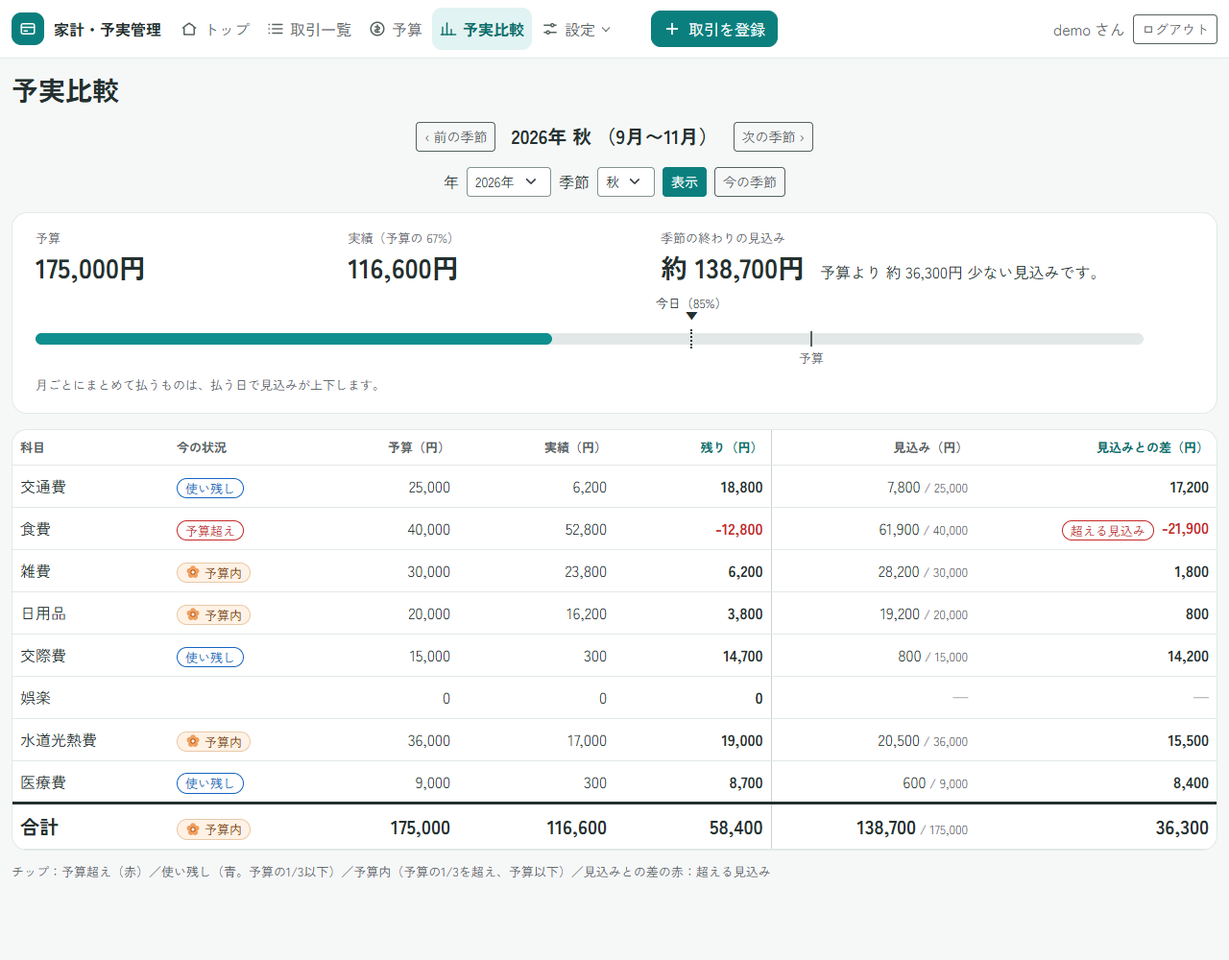
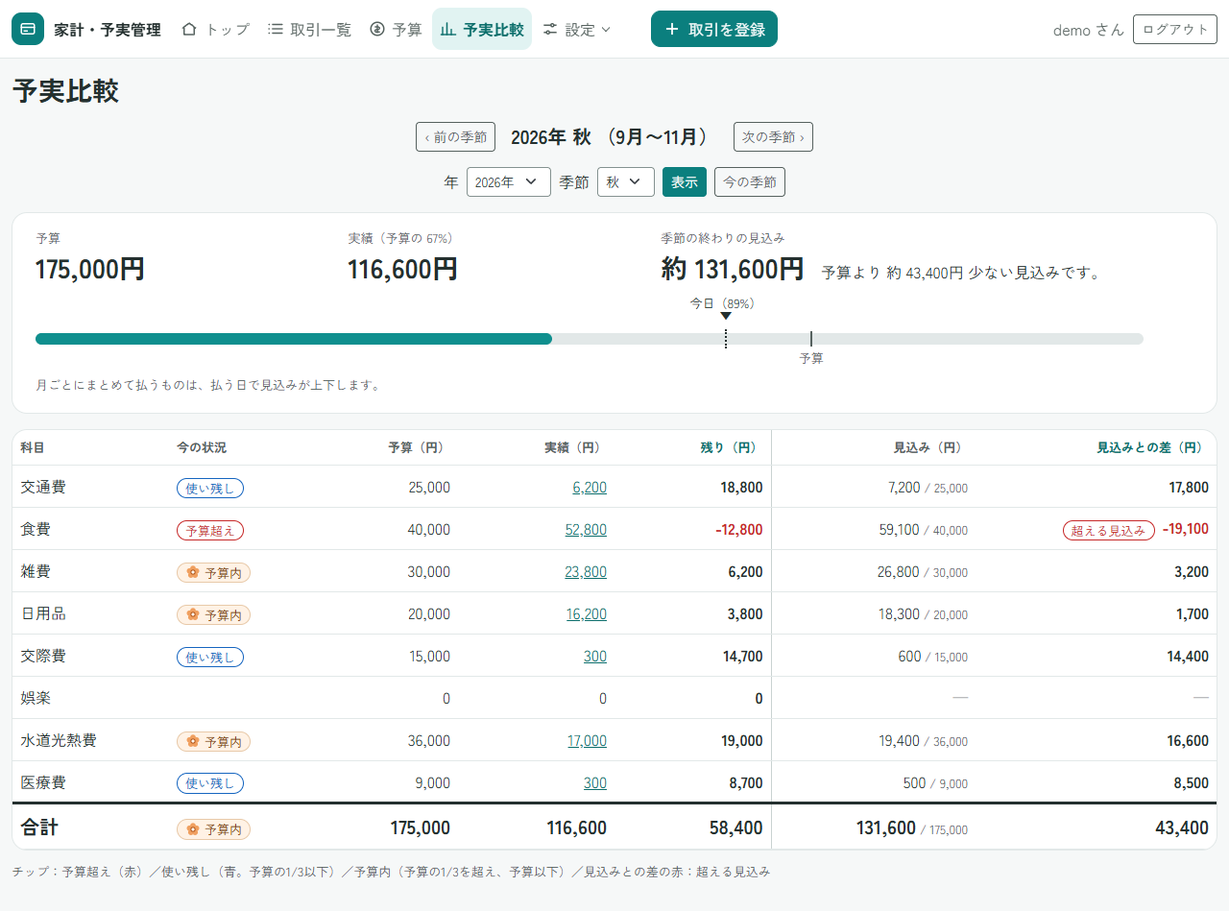
issue 023 段階4: 件数・features・画像07/08（完了）

diff --git a/docs/testing.md b/docs/testing.md
@@ -2,18 +2,18 @@
 
 [← README に戻る](../README.md)
 
-自動テストは **2,846 件**（2026 年 11 月 19 日の時点）で、すべて成功しています。古いレポートが混ざらないよう、`.\mvnw clean test` で流して数えています（`.\mvnw test` でも実行できます）（MySQL と環境変数が要ります。各テストは、データベースの変更を最後に取り消すので、データは残りません）。
+自動テストは **2,912 件**（2026 年 11 月 20 日の時点）で、すべて成功しています。古いレポートが混ざらないよう、`.\mvnw clean test` で流して数えています（`.\mvnw test` でも実行できます）（MySQL と環境変数が要ります。各テストは、データベースの変更を最後に取り消すので、データは残りません）。
 
 テストのときの DB の接続の数は、テストのときだけ読まれる `src/test/resources/config/application.properties` で、本体より小さくしています（テストの準備〔ApplicationContext〕は十数種類あり、準備ごとに接続の入れ物を持つため、MySQL の接続の上限に届かないようにする。issue 032 の段階 0）。本体の `src/main/resources/application.properties` はそのまま読まれ、アプリを起動したときの接続の数は変わりません。
 
 | 種類 | 件数 | 何を確かめるか |
 |---|---|---|
-| 画面（Controller） | 1149 | 明細の行に分けた登録（5 行、空の行、一部だけ入った行、行ごとの入力チェック、6 行目は 400、「行を足す」「行を消す」と明細の合計の HTML の印）、同じレシートの取引（印の付け方、印は画面から受け取らないこと、どの行から入っても編集・削除・複写がレシート全体になること、編集で行を足す・消す・直すときに残る行の id が変わらないこと、日付・取引先・支払方法が全部の行で変わること、一覧の並びと印「分割」、削除の確認の文、印のない行は 1 件ずつのままであること、他人のレシートの行は 404）、画面の表示、予実比較が「今日」を 1 回だけ取ること、エラーのメッセージ、入力値が残ること、移動先、他人のデータが見えないこと、金額ボタンの HTML、取引の複写、色とメニューの印、フォント（CSS の指定、ファイル、キャッシュ）、取引の登録・編集画面の 2 列（HTML の並び、印、ボタン、CSS の規則）、トップ（表示、空のときの案内、`style` 属性が数字と固定の文字だけであること、色の変数）、きょうのひとこと（枠の位置、暦の文の出し分け、行事と節気が重なる日の並び、年末・表の外の年、科目が 0 件のとき、科目名のエスケープ、他の人のデータが混ざらないこと、枠の CSS）、ヘッダー（ロゴ、メニューのアイコン、ヘッダーが 1 つだけであること）、ログイン・登録の 2 列（紹介、入力欄の `autocomplete`、CSS）、取引一覧（件数、カードの中の表）、トップの季節のメーター（見込みの一文と、メーターの数字との一致）、円グラフの一覧の今週の判定、予実比較の着地見込みの 1 行（今の季節だけ、「上回ります」が出る・出ない、警告の言葉がない）、予算設定の自動予算（`auto` の 1〜3 以外は 404、案の文、5 列の表と合計の行、ボタンと切りかえの表示、保存のボタンと CSRF、合計・確認の JavaScript に渡す HTML の印）、ログイン・登録の縦の位置（CSS）、メーター（縮尺、予算の線、超えた部分の赤、「+○%」、「今日」の名前）、予実比較の今の季節の列（残り・見込み・見込みとの差、チップ、列の幅、区切り線）、予算設定の列の並びと、案のもとにした数字の目印（薄いターコイズの背景）、トップの季節の文（2 行、赤い部分）と今週のひとこと（置き場所、アイコン、科目名の無害化）、ログイン・登録の紹介のチェック 3 つ（文、順番、印の数）、取引一覧の金額の見出し（「金額（円）」）とセルに「円」がないこと、行にマウスを載せたときの色（薄いターコイズを使わないこと、本文・リンク・補足の文字との明るさの比が 4.5 以上）、科目・取引先・支払方法の追加ボタンが入力欄と同じ行にあること（3 画面が同じ形、エラーの文は行の下）、ボタンの言葉（追加と保存。登録する・更新・変更の送信ボタンがなく、ログイン・登録・削除などはそのまま）、取引一覧の月ごとの見出し（件数と合計。他人の取引が混ざらないこと）、操作の列（編集・複写・削除のボタンとアイコン、削除の確認の文が科目名の記号で壊れないこと）、取引の詳細ページがなく 404 になること、金額ボタンの 2 つのまとまり、科目・取引先・支払方法の一覧と変更の画面の白いカード、予算設定・予実比較の「前の季節」「次の季節」の並び、ログイン・登録の上の余白と説明のチップ、取引の登録・編集画面の取引先・支払方法の並び（取引の件数の多い順、ほかの人の取引を数えないこと、編集・複写・入力エラーで選んでいた値が残ること、一覧の画面は登録順のまま）、ヘッダーの「取引を登録」（全画面に 1 つ、メニューの外、トップと取引一覧の本文にはないこと、登録画面だけで今の印が付くこと、ログイン前の画面には出ないこと、メニューのすぐあとでユーザー名のまとまりの外にあること、「設定」との間の 36px）、メニューの「設定」（5 つの項目、中の 3 つのリンク、「予算」から予算設定の画面へ、科目・取引先・支払方法の画面だけで「設定」に印、JavaScript を使わないこと） |
+| 画面（Controller） | 1208 | 取引一覧の絞り込み（他人・存在しない科目と不正な年・季節は 404、見出しの文、予実比較の実績との一致〔季節の境目〕、科目で絞ったときの削除の確認の文がレシート全体の値になること）、予実比較の実績のリンク（表示している季節で組む、リンク先の合計 ＝ セルの数字）、明細の行に分けた登録（5 行、空の行、一部だけ入った行、行ごとの入力チェック、6 行目は 400、「行を足す」「行を消す」と明細の合計の HTML の印）、同じレシートの取引（印の付け方、印は画面から受け取らないこと、どの行から入っても編集・削除・複写がレシート全体になること、編集で行を足す・消す・直すときに残る行の id が変わらないこと、日付・取引先・支払方法が全部の行で変わること、一覧の並びと印「分割」、削除の確認の文、印のない行は 1 件ずつのままであること、他人のレシートの行は 404）、画面の表示、予実比較が「今日」を 1 回だけ取ること、エラーのメッセージ、入力値が残ること、移動先、他人のデータが見えないこと、金額ボタンの HTML、取引の複写、色とメニューの印、フォント（CSS の指定、ファイル、キャッシュ）、取引の登録・編集画面の 2 列（HTML の並び、印、ボタン、CSS の規則）、トップ（表示、空のときの案内、`style` 属性が数字と固定の文字だけであること、色の変数）、きょうのひとこと（枠の位置、暦の文の出し分け、行事と節気が重なる日の並び、年末・表の外の年、科目が 0 件のとき、科目名のエスケープ、他の人のデータが混ざらないこと、枠の CSS）、ヘッダー（ロゴ、メニューのアイコン、ヘッダーが 1 つだけであること）、ログイン・登録の 2 列（紹介、入力欄の `autocomplete`、CSS）、取引一覧（件数、カードの中の表）、トップの季節のメーター（見込みの一文と、メーターの数字との一致）、円グラフの一覧の今週の判定、予実比較の着地見込みの 1 行（今の季節だけ、「上回ります」が出る・出ない、警告の言葉がない）、予算設定の自動予算（`auto` の 1〜3 以外は 404、案の文、5 列の表と合計の行、ボタンと切りかえの表示、保存のボタンと CSRF、合計・確認の JavaScript に渡す HTML の印）、ログイン・登録の縦の位置（CSS）、メーター（縮尺、予算の線、超えた部分の赤、「+○%」、「今日」の名前）、予実比較の今の季節の列（残り・見込み・見込みとの差、チップ、列の幅、区切り線）、予算設定の列の並びと、案のもとにした数字の目印（薄いターコイズの背景）、トップの季節の文（2 行、赤い部分）と今週のひとこと（置き場所、アイコン、科目名の無害化）、ログイン・登録の紹介のチェック 3 つ（文、順番、印の数）、取引一覧の金額の見出し（「金額（円）」）とセルに「円」がないこと、行にマウスを載せたときの色（薄いターコイズを使わないこと、本文・リンク・補足の文字との明るさの比が 4.5 以上）、科目・取引先・支払方法の追加ボタンが入力欄と同じ行にあること（3 画面が同じ形、エラーの文は行の下）、ボタンの言葉（追加と保存。登録する・更新・変更の送信ボタンがなく、ログイン・登録・削除などはそのまま）、取引一覧の月ごとの見出し（件数と合計。他人の取引が混ざらないこと）、操作の列（編集・複写・削除のボタンとアイコン、削除の確認の文が科目名の記号で壊れないこと）、取引の詳細ページがなく 404 になること、金額ボタンの 2 つのまとまり、科目・取引先・支払方法の一覧と変更の画面の白いカード、予算設定・予実比較の「前の季節」「次の季節」の並び、ログイン・登録の上の余白と説明のチップ、取引の登録・編集画面の取引先・支払方法の並び（取引の件数の多い順、ほかの人の取引を数えないこと、編集・複写・入力エラーで選んでいた値が残ること、一覧の画面は登録順のまま）、ヘッダーの「取引を登録」（全画面に 1 つ、メニューの外、トップと取引一覧の本文にはないこと、登録画面だけで今の印が付くこと、ログイン前の画面には出ないこと、メニューのすぐあとでユーザー名のまとまりの外にあること、「設定」との間の 36px）、メニューの「設定」（5 つの項目、中の 3 つのリンク、「予算」から予算設定の画面へ、科目・取引先・支払方法の画面だけで「設定」に印、JavaScript を使わないこと） |
 | 入力チェックと値の変換 | 349 | 明細の行ごとの入力チェック（空の行は無視、一部だけ入った行、型変換のエラーのある行、1 行以上、5 行まで）、必須・文字数・範囲、全角の数字、整数でない入力 |
-| 計算 | 707 | 季節の決まり（前後の季節、範囲、冬の年）、色の判定の境目、今週の期間、週の予算と切り上げの境目、「今日」の線の位置、円グラフの並びと割合、二十四節気の日と七十二候の境目（年をまたぐ、表の外の年）、年中行事の日（節分・お彼岸入りは節気から計算）、グラフへのひとことの型と選び方、季節の終わりまでの日数、使った割合と日の進み方の％、着地見込みの式（整理前の式との一致、予定どおりなら予算、100 円切り上げ、桁あふれは例外）、「予算の ○%」と「上回ります」の境目、円グラフの一覧の判定の引き継ぎ（「その他」は判定なし）、自動予算の計算（過去の同じ季節の組み立て、中央値、傾向の％と上限、ペース、案の選び方と 1,000 円切り上げ・上限、桁あふれ）、メーターの縮尺と赤い部分（予算 0 円を含む）、今週いちばん進んでいる科目の選び方、最初の取引の日から数える着地見込みとペース（予算の日割りを含む）、予実比較の見込みの差の文（少ない・多い・同じ） |
+| 計算 | 709 | 季節の決まり（前後の季節、範囲、冬の年）、色の判定の境目、今週の期間、週の予算と切り上げの境目、「今日」の線の位置、円グラフの並びと割合、二十四節気の日と七十二候の境目（年をまたぐ、表の外の年）、年中行事の日（節分・お彼岸入りは節気から計算）、グラフへのひとことの型と選び方、季節の終わりまでの日数、使った割合と日の進み方の％、着地見込みの式（整理前の式との一致、予定どおりなら予算、100 円切り上げ、桁あふれは例外）、「予算の ○%」と「上回ります」の境目、円グラフの一覧の判定の引き継ぎ（「その他」は判定なし）、自動予算の計算（過去の同じ季節の組み立て、中央値、傾向の％と上限、ペース、案の選び方と 1,000 円切り上げ・上限、桁あふれ）、メーターの縮尺と赤い部分（予算 0 円を含む）、今週いちばん進んでいる科目の選び方、最初の取引の日から数える着地見込みとペース（予算の日割りを含む）、予実比較の見込みの差の文（少ない・多い・同じ） |
 | 業務処理（Service） | 371 | 明細の行の登録（全部の行を確かめてから書くこと）、同じレシートを読む・登録する・更新するときの SQL の本数が行の数で増えないこと、登録・更新・削除の決まり、初期データ、予実比較の集計、予実比較の画面用のまとまり（科目ごとの見込みと見込みとの差、要約カードが出る条件、過去・未来の季節では出さないこと）、予実比較・トップ・予算設定の SQL の本数が科目の数で増えないこと、取引の登録・編集画面の SQL の本数が科目・取引先・支払方法・取引の数で増えないこと、256 個の上限、トップの集計（週の境目、季節をまたぐ週、他の人のデータが混ざらないこと）、きょうのひとこと（文面 107 個の件数・番号・空の文、二十四節気の日付の表を国立天文台の日付と照らすこと、グラフへのひとことの文に禁止の言葉がないこと）、トップの数字（残り日数、％、状況のチップ、円グラフの一覧の判定が今週の進み具合と同じこと、着地見込みが予実比較の合計と同じ値から計算されること）、自動予算（「記録のある年」の判定、根拠の文、他人のデータが混ざらないこと、案を入れても保存しないこと）、予算設定の初期値、最初の取引の日から数えた着地見込みが、トップ・予実比較・自動予算に届くこと、案のもとにした数字をサーバーが決めること、取引の月ごとの集計（月末と月初、うるう年、年またぎ、他人の取引が混ざらないこと） |
 | セキュリティ | 98 | ログイン必須、CSRF、ログイン・ログアウト、ログインが切れたあとの移動（issue 030）、応答のヘッダー、フォントがログインなしで開けること |
-| データベース | 80 | 同じレシートの取引を「印と持ち主」で読む検索（他人の行を読まないこと）、一覧の並び（日付 → レシート → 行の順）、印の列の読み書き、読み書き、制約、集計の SQL（月ごとの科目別の集計を含む）、最初の取引の日（自分の取引だけ） |
+| データベース | 85 | 取引一覧の絞り込みの検索（値が null なら絞らない、他人の行を読まない、並びが絞らない一覧と同じ）、同じレシートの合計を「印と持ち主」で読む検索、同じレシートの取引を「印と持ち主」で読む検索（他人の行を読まないこと）、一覧の並び（日付 → レシート → 行の順）、印の列の読み書き、読み書き、制約、集計の SQL（月ごとの科目別の集計を含む）、最初の取引の日（自分の取引だけ） |
 | そのほか | 92 | 明細の行の JavaScript（split-lines.js）のソースの検査（行を作らない・写さない、文を持たない）、メッセージの文、テンプレートの検査（無害化しない出力がないこと、`onsubmit` などのイベントの属性と `javascript:` の URL がないこと）、JavaScript のソースの検査（金額ボタン、予算の合計、`static/js` の全ファイルに `innerHTML`・`eval` などがないこと）、エラー処理、設定、起動 |
 
 自動テストでは確かめにくいものは、ブラウザで確かめました（Phase 8）。全画面を開く、入力チェックの境界値、セキュリティ（ログイン前後のセッション ID の変化、Cookie、エラー画面）、2 人のユーザーでのデータ分離です。確認の記録は、[docs/plans/phase-8-polish.md](plans/phase-8-polish.md) にあります。
@@ -81,6 +81,19 @@
 - 印は画面から受け取らない（送っても使わない）
   - `TransactionReceiptTest.aMarkSentOnRegistrationIsIgnored`
   - `TransactionReceiptTest.aMarkSentOnEditIsIgnored`
+
+**取引一覧の絞り込みと、予実比較の実績のリンク（issue 023）**
+
+- 他人の科目・存在しない科目・数字でない値は、同じ 404 になる
+  - `TransactionFilterTest.otherUsersMissingAndInvalidCategoriesAreTheSame404`
+- 他人の行に自分の科目の ID が入っていても（SQL で作る）、絞り込んだ一覧に出ない
+  - `TransactionFilterTest.otherUsersRowsAreNeverShownEvenWithMyCategoryId`
+  - `TransactionRepositoryFilterTest.otherUsersRowsAreNeverReturned`
+- 科目で絞っても、削除の確認の文の合計・行の数は、実際に消える行（レシート全体）と同じ。他人の行に同じ印の値が入っていても数えない
+  - `TransactionFilterTest.theDeleteConfirmationOfAPartlyShownReceiptCountsTheWholeReceipt`
+  - `TransactionFilterTest.anotherUsersRowWithTheSameMarkIsNotCounted`
+- 予実比較のリンクに出るのは、自分の科目の ID だけ
+  - `ComparisonControllerTest.linksCarryOnlyMyOwnCategoryIds`
 
 **アカウント登録**
 

diff --git a/docs/features.md b/docs/features.md
@@ -14,12 +14,13 @@
 - **1 回の支払いを、科目に分けて登録する（複合仕訳）**：レシート 1 枚の支払いを、日付・取引先・支払方法は 1 つだけ入れ、科目・金額・摘要は 5 行まで、行ごとに入れて登録できます（例：スーパー 3,000 円 → 食費 2,200 円 ＋ 日用品 800 円）。1 行が 1 つの取引になり、予実比較などの集計には、科目ごとに入ります。分けて登録した取引はつながっていて、一覧のどの行から編集・削除・複写を選んでも、そのレシート全体が対象になります（一覧では「分割」の印が付き、続けて並びます）。明細の合計を画面に出しますが、合計は入力しません（レシートと合っているかは、見て確かめます）。
 - **金額の入力を助けるボタン**：取引の登録・編集の画面の、明細の各行の金額の欄に、足すボタン（+1・+10・+100・+1,000・+10,000）、税込のボタン（10%・8%。端数は切り捨て）、クリアを置いています。税込のボタンは、金額に税を二重にかけないよう、一度押したら、欄を書き換えるか空にするまで押せません。ボタンを使わず、手で数字を入力してもかまいません。ボタンで入れた金額にも、サーバーが同じ入力チェックをします。
 - **取引の複写**：取引一覧の各行の「複写」を押すと、その取引の科目・取引先・支払方法・金額・摘要（分けて登録した取引なら、そのレシートの全部の行）が入った登録画面が開きます。日付は今日です。開いただけでは保存せず、「保存」を押したときに、ふつうの登録と同じ入力チェックをして保存します。他人の取引や、存在しない取引は写せません（404）。
+- **取引一覧の絞り込み**：取引一覧を、科目と季節で絞り込めます（科目だけ・季節だけ・両方。例：`/transactions?category=3&year=2026&season=autumn`）。予実比較の実績の数字から開くのがふつうの入り方です。一覧の上に「2026年 秋・食費の取引（3 件・合計 12,300円）」のような見出しと、「絞り込みを外す」が出ます（冬は「2026年 冬（2026年12月〜2027年2月）」と期間を添えます）。季節と科目を両方指定したときの合計は、予実比較の実績と同じです。当てはまる取引がないときは「この条件に当てはまる取引はありません。」と出ます。分けて登録したレシートを科目で絞ると、その科目の行だけが出ますが、削除の確認には、レシート全体の合計と行の数と、「この一覧に出ていない ○ 行も消えます。」が出ます。他人の科目、存在しない科目、年と季節の片方だけ、不正な値は 404 です。編集・複写・削除のあとは、絞り込まない一覧に戻ります。
 - **科目・取引先・支払方法の管理**：追加・変更・削除ができます。それぞれ 1 人あたり 256 個までです。取引で使っているものと、0 円でない予算がある科目は、削除できません。削除の前に、どれを消すか（種類と名前）を書いた確認が出ます。新しくアカウントを作ると、科目（交通費・食費・雑費。今の季節の予算は各 30,000 円）、取引先（コンビニ・ガソリンスタンド・Amazon）、支払方法（現金・クレジットカード）が自動で用意されます。
 - **予算**：季節ごとの予算を、全科目まとめて設定します。年と季節を選ぶ欄、「前の季節」「次の季節」、「今の季節」ボタンで、季節を移動できます。まだ保存していない科目の予算額の初期値は 0 円です（保存すると、その額が入ります）。予算額の合計は、表の一番下の合計の行に出て、欄を書き換えるたびに計算し直します（短い JavaScript。数字でない欄や空の欄があるときは、合計に入れず、文で知らせます）。
 - **自動予算**：予算設定の画面の「自動予算」ボタンで、科目ごとの予算の案を入力欄に入れます（保存はしません。保存は「保存」を押したときだけ）。案は、上から順に最初に当てはまるもので決めます。①過去 3 年の同じ季節の実績の中央値 × ここ 3 年の傾向 × 選んだ割合。②直前の季節のペース × 選んだ割合。③直前の季節の予算 × 選んだ割合。④どれもなければ、今の値のまま。傾向は全科目で同じで、上限は ±30%、最後に 1,000 円単位で切り上げ、1 科目 3,000,000 円を上限にします。割合は、「1. これで OK」（100%）、「2. 節約したい」（90%）、「3. 上乗せしたい」（110%）から選べ、選び直すたびに、もとから計算し直します。案を入れたあとは、直前の季節の予算・実績、案の根拠の列と、合計の行が出ます。手で直した額があるときは、「自動予算」や 1〜3 を押す前に確認が出ます（JavaScript が有効のときだけ）。「保存」を押したときも、保存する前に、「2026 年 冬の予算を保存します（合計 141,000 円）。よろしいですか？」のような確認が出ます（数字でない欄や空の欄があるときは、合計を書かない文。JavaScript が有効のときだけ）。表は「科目 → 根拠 → 予算額 → 前の季節の実績 → 前の季節の予算」の並びで、案のもとにした数字（根拠の数字、前の季節のペースか実績、前の季節の予算）には、薄いターコイズの背景と太字の目印が付きます（材料がない科目には付けません）。どの数字かは、案を決めたルールから、サーバーが決めます。
 - **トップ**：ログインしたあとに開く最初の画面です。①今の季節の「使った額 / 予算」と「残り」を、メーターで見せます（棒の上に「今日」の名前を、点線で置きます）。メーターの下には、2 行で、「季節は ○% 過ぎて、予算は ○% 使いました。」と、「このペースだと、季節の終わりには 約 ○円（予算の ○%）の見込みです。」を見せます（「約 ○円（予算の ○%）」は大きく、見込みが予算を超えるときは「予算の ○%」だけ赤です）。②今週（日曜〜土曜）に何に使ったかを、円グラフと一覧で見せます（ターコイズの濃淡と灰色だけ。科目が多いときは上位 5 科目と「その他」）。③今週の科目ごとの「実績 / 週の予算」を、メーターで見せます。週の予算は、今日が入っている季節の予算 ÷ 13 を 100 円単位で切り上げた額、今週の実績も 100 円単位で切り上げた額です。科目名の横に、状況のチップ（予算超え・使い残し・予算内）を出します。決まりは予実比較と同じで、予算超えのチップには、超えた金額も出します（「予算超え ＋1,100円」）。メーターのすぐ下に、小さなアイコンつきで、**今週いちばん進んでいる科目**の 1 文（「今週いちばん進んでいる○○は、季節では約 ○円（予算の ○%）の見込みです。」）を出します。選ぶのは、週の予算に対する今週の実績の割合がいちばん高い科目で、使っていない科目と、週の予算が 0 円・未設定の科目は選びません。円もメーターも、HTML と CSS だけで描いています（JavaScript もライブラリも使いません）。
 - **きょうのひとこと**：トップの円グラフの下の枠です。①暦のひとこと：ふだんはその日の七十二候の文、二十四節気が始まる日は節気の文、年中行事の日は行事の文（行事と節気が同じ日は、行事を先に両方）。次の節気までの日数も添えます。②グラフへのひとこと：今週の数字から、決まった型（残りを日数で割った 1 日あたりの額、週の予算以下の科目の数、週の予算がいちばん残っている科目、先週の同じ曜日までとの差、今週の記録の件数、今週まだ使っていない科目、日曜の「新しい週です」）の中から、日付で順番に 1 つ選んで作る一言です。評価や命令の言い方はしません。サーバー側で作って表示し、JavaScript・外部の API・CDN は使いません。
-- **予実比較**：季節ごとに、科目別の予算・実績を表で比べます。最下行は合計行です。過去・未来の季節の表は「科目／状況／予算／実績／差額」で、差額は「予算 − 実績」です（予算を超えるとマイナス）。予算を設定していない季節は「未設定」と表示します。今の季節では、表の上に、**着地見込み**（今のペースが続いたとき、季節の終わりに合計でいくらになるか）の要約カード（見込み・予算・実績と、メーター）を置き、表は「科目／今の状況／予算／実績／残り／見込み／見込みとの差」の 7 列にします。**残り**は、過去・未来の季節の差額と同じ値（予算 − 実績）で、名前だけを変えています。**見込み**は科目ごとに出し、「7,900 / 25,000」の形で、その科目の予算を横に小さく添えます（予算が未設定・0 円の科目は「—」）。**見込みとの差**は「予算 − 見込み」で、マイナスのとき（見込みが予算を超えるとき）だけ、赤い字と「超える見込み」のチップを付けます。見込みは、「季節の初めは予算を信じ、日がたつほど実際のペースを信じる」式（見込み ＝ 実績 ×（1 ＋ 残りの割合）＋ 予算 ×（残りの割合）²。残りの割合は、残りの日数 ÷ 季節の日数）で求め、100 円単位で切り上げて「約」を付けます。最初の取引の日が、その季節の途中にあるときは、季節の初日ではなく、その日から日数を数えます（予算は、数える日数に合わせて日割りで混ぜます。要約カードに「○/○ に記録を始めたので、その日から数えています。」と出ます）。数字を見せるだけで、前もって知らせるアラートとは別です。
+- **予実比較**：季節ごとに、科目別の予算・実績を表で比べます。最下行は合計行です。過去・未来の季節の表は「科目／状況／予算／実績／差額」で、差額は「予算 − 実績」です（予算を超えるとマイナス）。予算を設定していない季節は「未設定」と表示します。科目の行の実績の数字は、その季節・その科目の取引一覧へのリンクです（実績が 0 円の行、合計行、要約カードの数字はリンクにしません。マウスを載せると「2026年 秋・食費の取引を見る」と出ます）。今の季節では、表の上に、**着地見込み**（今のペースが続いたとき、季節の終わりに合計でいくらになるか）の要約カード（見込み・予算・実績と、メーター）を置き、表は「科目／今の状況／予算／実績／残り／見込み／見込みとの差」の 7 列にします。**残り**は、過去・未来の季節の差額と同じ値（予算 − 実績）で、名前だけを変えています。**見込み**は科目ごとに出し、「7,900 / 25,000」の形で、その科目の予算を横に小さく添えます（予算が未設定・0 円の科目は「—」）。**見込みとの差**は「予算 − 見込み」で、マイナスのとき（見込みが予算を超えるとき）だけ、赤い字と「超える見込み」のチップを付けます。見込みは、「季節の初めは予算を信じ、日がたつほど実際のペースを信じる」式（見込み ＝ 実績 ×（1 ＋ 残りの割合）＋ 予算 ×（残りの割合）²。残りの割合は、残りの日数 ÷ 季節の日数）で求め、100 円単位で切り上げて「約」を付けます。最初の取引の日が、その季節の途中にあるときは、季節の初日ではなく、その日から日数を数えます（予算は、数える日数に合わせて日割りで混ぜます。要約カードに「○/○ に記録を始めたので、その日から数えています。」と出ます）。数字を見せるだけで、前もって知らせるアラートとは別です。
 - **メーター**：トップの季節と今週、予実比較の要約カードの棒は、**予算（100%）を棒全体の 70% の位置**に置きます（右端は約 143%）。予算の位置に灰色の実線を引いて、予算を超えた部分だけを赤で見せます（予算が 0 円で使ったときは、全体が赤）。143% を超えたら、棒は右端で止まり、棒の右に「+○%」（予算を超えた割合）が出ます。「今日」は点線で、季節のメーターとカードでは、棒の上に名前（「今日（79%）」）を置きます。縮尺の 70% は、1 か所（`MeterScale`）だけで決めています。
 
 ## 予実比較の状況のチップ

diff --git a/docs/plans/issue-023-drilldown.md b/docs/plans/issue-023-drilldown.md
@@ -2,7 +2,7 @@
 
 全体の位置づけは [実行計画書](execution-plan.md) を見てください。この文書は、[issue 023](../issues/023-科目から明細へ.md)（予実比較の実績の数字から、その季節・その科目の取引の一覧へたどる）を進める手順書です。
 
-> **状態（2026年11月19日）**：◐ **段階 2 完了**〔段階 1：取引一覧を、URL の `category`・`year`・`season` で絞り込める。段階 2：予実比較の科目の行の実績から、その季節・その科目の取引一覧へ移れる〕。`.\mvnw clean test` は 2,912 件成功。本人のブラウザでの確認を待つ。段階 3〔戻り先〕は保留〔3.4 の条件〕。そのあと段階 4〔仕上げ〕。
+> **状態（2026年11月20日）**：● **完了**。段階 1〔取引一覧を、URL の `category`・`year`・`season` で絞り込める〕、段階 2〔予実比較の科目の行の実績から、その季節・その科目の取引一覧へ移れる〕、段階 4〔仕上げ〕を行った。**段階 3〔戻り先〕は保留**〔進める条件：毎回絞り込み直すのが面倒だと分かったとき。そのときは別の issue にする。3.4〕。`.\mvnw clean test` は 2,912 件成功。
 
 - ブランチ：`feature/issue-023-drilldown`。秘密情報：パスワード・接続先の値は、どこにも書かない。
 - 進め方：1 つの段階が終わったら止まって、確認を待つ。変更は、文書が先〔要件定義書 → 設計書 → この手順書〕、コードは後。**テストが先**〔失敗を確かめてから実装〕。コミットと push は本人。
@@ -128,7 +128,7 @@
 
 ### 3.4 段階 3：戻り先〔保留〕
 
-- **進める条件**：段階 1・2 を本人が使ってみて、**編集・削除のたびに絞り込み直すのが面倒だと分かったら**進める。分からなければ、この段階は行わず、4 に進む。
+- **保留〔2026年11月20日・本人〕**：この issue では行わず、段階 4 で issue 023 を完了にした〔理由：使ってみる期間のあいだブランチを開けておくと、次の issue と重なるため〕。**進める条件**：毎回絞り込み直すのが面倒だと分かったとき。**そのときは、別の小さな issue として始める**〔下の案と、5.2 の下書きを使う〕。
 - 案〔調べたときの案 B〕：一覧の「編集」のリンクと「削除」のフォームに、絞り込みの値〔`category`・`year`・`season`〕だけを付ける。受け取る側は、**操作の前に**一覧と同じ確かめをし、だめなら 404 で何も変えない〔設計書 7.8 の順と同じ〕。戻る先のパスは `/transactions` に決め、値はサーバーがクエリとして組み立てる。**URL の文字列は受け取らない**〔外のサイトへ飛ばす道を作らない〕。入力エラーで編集画面を出し直すときも、隠しの欄で値を持つ。編集画面の「← 取引一覧に戻る」「キャンセル」も同じ。複写のあとは今のまま〔保存した取引の日付は今日で、絞り込みの外に出ることが多いため〕。
 - わざと壊す候補：戻り先の値の確かめを、操作のあとに回す → 「書き換えた値なら何も消えない」テストが失敗すること。
 - 文書の下書きは 5.2。
@@ -137,6 +137,11 @@
 
 - `docs/features.md`〔取引・予実比較の項〕、`docs/testing.md`〔件数、データの分離のテストの名前〕、README〔テストの件数。画像 07〔予実比較〕の見た目が変わるなら、撮り直すかを本人が決める〕、issue 023 の状態。
 - 全体のテスト〔`.\mvnw clean test`〕。
+- 〔済み。2026年11月20日〕記録は 6 章。
+
+#### 3.5.1 後回しの候補〔この issue では直さない〕
+
+- 季節の書き方〔冬は期間を添える〕を組み立てる式が、`transactions/list.html` と `comparison/index.html` の 2 か所にある。次に季節の書き方を変えるときは、1 か所にまとめる〔例：`SeasonPeriod` に表示用の値を持たせる〕。
 
 ### 3.6 あとで `vendor`・`q` を足すとき〔この issue では作らない〕
 
@@ -189,3 +194,4 @@
   - **わざと壊して確かめた**〔毎回 `ComparisonControllerTest` を流し、控えから戻した。戻したあと、控えと同じであることを確かめ、`clean` を付けて全体を流し直した〕：
     - (a) URL の年・季節を、表示している季節ではなく今日の季節で組む〔Controller が今日の季節を画面に渡し、テンプレートがそれを使う形で再現した。テストの「今日」は時計を固定しているので、テンプレートの中で本物の今日を使うと、テストの今日とずれるため〕→ **5 件が失敗**：テスト案 2 の 3 件〔前の季節・次の季節・2025 年冬〕、テスト案 5 の 1 件〔秋の画面〕、テスト案 3〔秋の画面〕。表示している季節が今日の季節のときは、同じ URL になるので通る〔正しい動き〕。
     - (b) リンクの科目 ID を、となりの行の ID にする → **3 件が失敗**：テスト案 5 の 3 件だけ〔ほかのテストは、リンクが 1 つだけなので、となりが自分になり、気づけない。取り違えを止めるのはテスト案 5 だと確かめた〕。
+- 2026年11月20日：本人が、段階 3 を保留のまま、段階 4 で issue 023 を完了にすると決めた〔3.4〕。**段階 4 を行った**〔`src` は変えていない〕。README のテストの件数〔2 か所。2,912 件〕、`docs/testing.md`〔総数、種類ごとの表〔画面 1,208、計算 709、データベース 85。表の合計が 2,912 件と合う〕、何を確かめるかの文、データの分離のテストの名前〕、`docs/features.md`〔取引一覧の絞り込みの項を足し、予実比較の項にリンクの 1 文〕、この手順書〔状態、3.4、3.5.1 後回しの候補〕、issue 023 の状態。`.\mvnw clean test` は 2,912 件成功〔件数は変わらない〕。README の画像のうち、予実比較の表が写っているのは `07-comparison.png` と `08-comparison-unset.png`〔撮り直すかは本人が決める〕。

diff --git a/docs/issues/023-科目から明細へ.md b/docs/issues/023-科目から明細へ.md
@@ -1,6 +1,6 @@
-# 023：科目から明細へ（科目別の取引一覧）（進行中）
+# 023：科目から明細へ（科目別の取引一覧）（完了）
 
-> **状態（2026年11月19日）**：◐ **進行中（段階 2 完了：予実比較の科目の行の実績から、その季節・その科目の取引一覧へ移れる。段階 3〔戻り先〕は保留。次は段階 4：仕上げ）**。2026年11月11日に要望の一覧として書き、[issue 032](032-複合仕訳.md)〔複合仕訳。同じレシートの取引のつながり〕が終わったあと、**2026年11月19日に、032 を前提にして書き直した**。決まったこと・段階・下書きは、手順書 [issue-023-drilldown.md](../plans/issue-023-drilldown.md) にある。要件定義書〔3 章、4.2〕と設計書は、段階 1 の分だけ直した。段階 1-2 で、取引一覧の絞り込みを作った。段階 2 で、要件定義書〔3 章、4.2、4.4〕と設計書を直し、予実比較の実績をリンクにした〔`.\mvnw clean test` は 2,912 件成功〕。
+> **状態（2026年11月20日）**：● **完了**。取引一覧を、科目と季節で絞り込める〔段階 1〕。予実比較の科目の行の実績から、その季節・その科目の取引一覧へ移れる〔段階 2〕。**段階 3〔操作のあとの戻り先〕は保留**〔進める条件：毎回絞り込み直すのが面倒だと分かったとき。そのときは別の issue にする〕。`.\mvnw clean test` は 2,912 件成功。2026年11月11日に要望の一覧として書き、[issue 032](032-複合仕訳.md)〔複合仕訳。同じレシートの取引のつながり〕が終わったあと、**2026年11月19日に、032 を前提にして書き直した**。決まったこと・段階・下書きは、手順書 [issue-023-drilldown.md](../plans/issue-023-drilldown.md) にある。要件定義書〔3 章、4.2〕と設計書は、段階 1 の分だけ直した。段階 1-2 で、取引一覧の絞り込みを作った。段階 2 で、要件定義書〔3 章、4.2、4.4〕と設計書を直し、予実比較の実績をリンクにした〔`.\mvnw clean test` は 2,912 件成功〕。
 
 ## 概要
 
@@ -46,7 +46,7 @@
 ## 今回やらないこと
 
 - 取引先・摘要での検索、複写の検索〔上の 5〕。
-- 操作のあと、絞り込んだ一覧に戻ること〔段階 3。**保留**。進める条件は手順書〕。
+- 操作のあと、絞り込んだ一覧に戻ること〔段階 3。**保留**。進める条件：毎回絞り込み直すのが面倒だと分かったとき。そのときは別の issue にする〕。
 - 一覧の上に、絞り込みを選ぶ欄を置くこと〔リンクと URL で入るだけ〕。ページ分け。
 - 取引一覧の見た目の作り直し、CSV の取り込み〔[issue 013](013-CSVの取り込み.md)〕、グラフ。
 - データベースの変更。JavaScript・外部の API・ライブラリの追加。
@@ -60,4 +60,4 @@
 
 ## 対応状況
 
-進行中〔2026年11月19日。段階 2 完了〕。段階：1-1 文書 → 1-2 テストと実装 → 2 予実比較のリンク → 3 戻り先〔保留〕→ 4 仕上げ。
+完了〔2026年11月20日〕。段階：1-1 文書 → 1-2 テストと実装 → 2 予実比較のリンク → 4 仕上げ。3 戻り先は保留〔進める条件：毎回絞り込み直すのが面倒だと分かったとき。そのときは別の issue にする。手順書 3.4〕。後回しの候補が 1 つある〔手順書 3.5.1〕。
